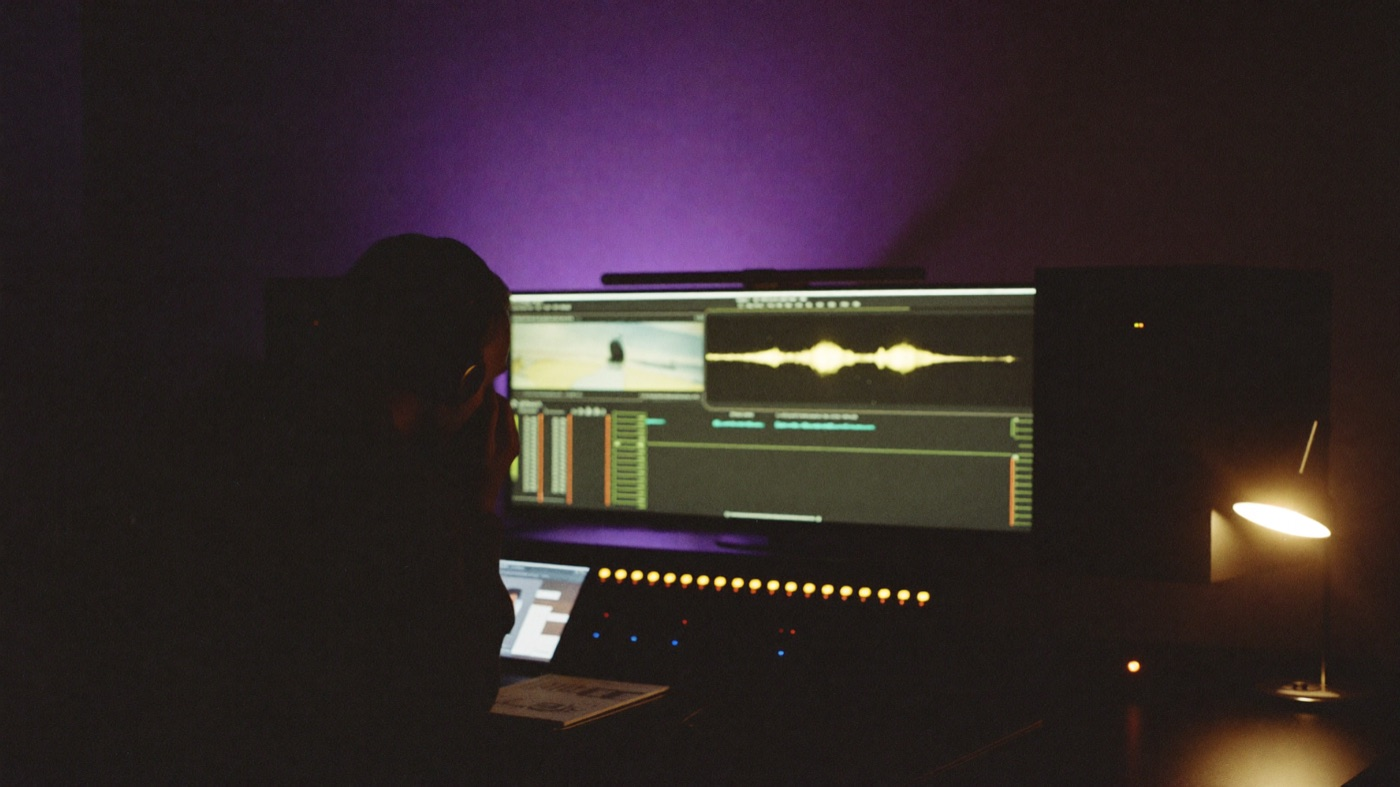
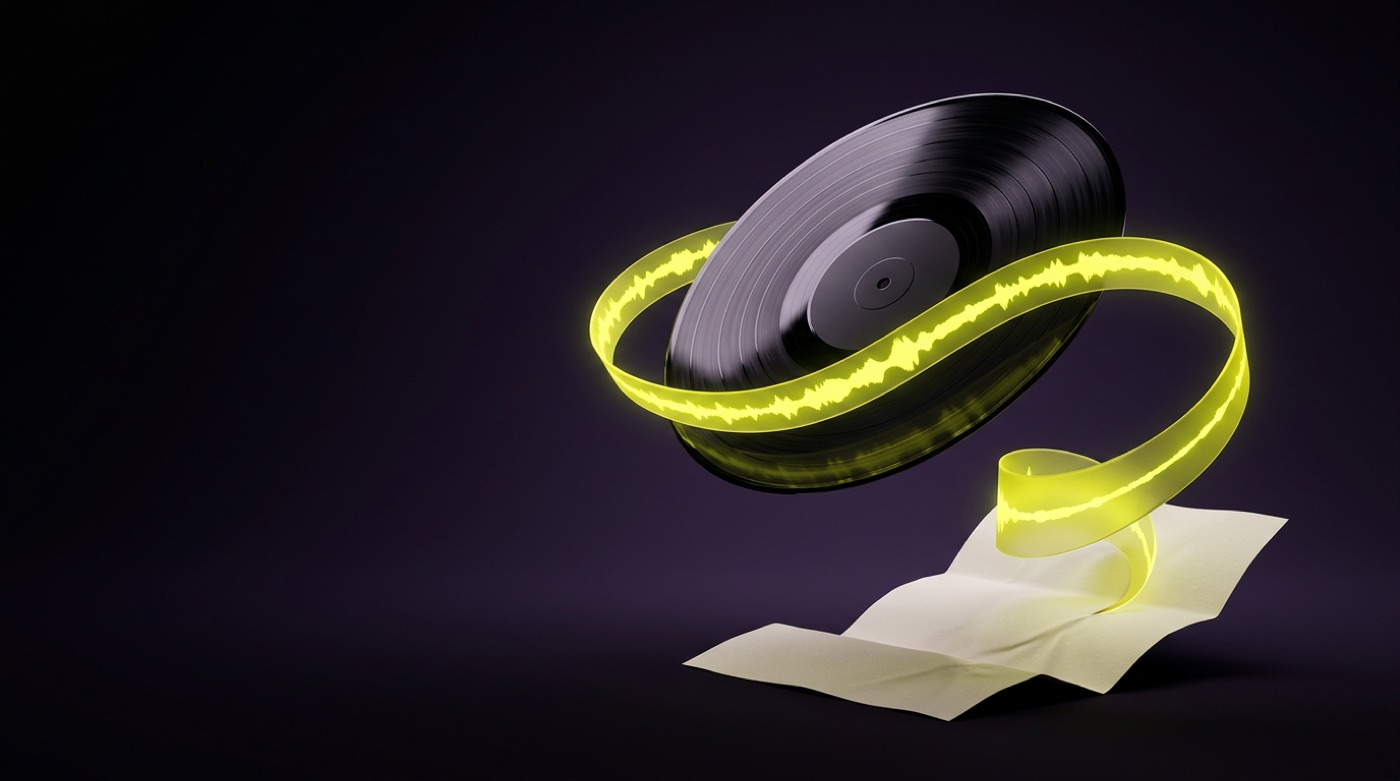
Landing: art-directed How it works card images

diff --git a/src/pages/Landing.tsx b/src/pages/Landing.tsx
@@ -145,14 +145,14 @@ const sides = [
     title: "Locate, Listen, License",
     points: ["Search the marketplace with plain-language", "Select licensing terms: territory, exclusivity, duration, usage type, audience", "Sign the licensing agreement and pay in one checkout"],
     image: asset("side-licensee.jpg"),
-    alt: "Music supervisor reviewing a cue in an editing suite",
+    alt: "Vinyl record with a waveform flowing into a licence",
   },
   {
     label: "For labels & publishers",
     title: "Set Terms Once, Approve with Confidence",
     points: ["Publish rate cards buyers can license from", "Review clearance requests with master and publisher approval", "Track sync orders and revenue in one dashboard"],
     image: asset("side-rights.jpg"),
-    alt: "Label team reviewing a licence request together",
+    alt: "Approval seal over a stack of record sleeves",
   },
 ];
 
